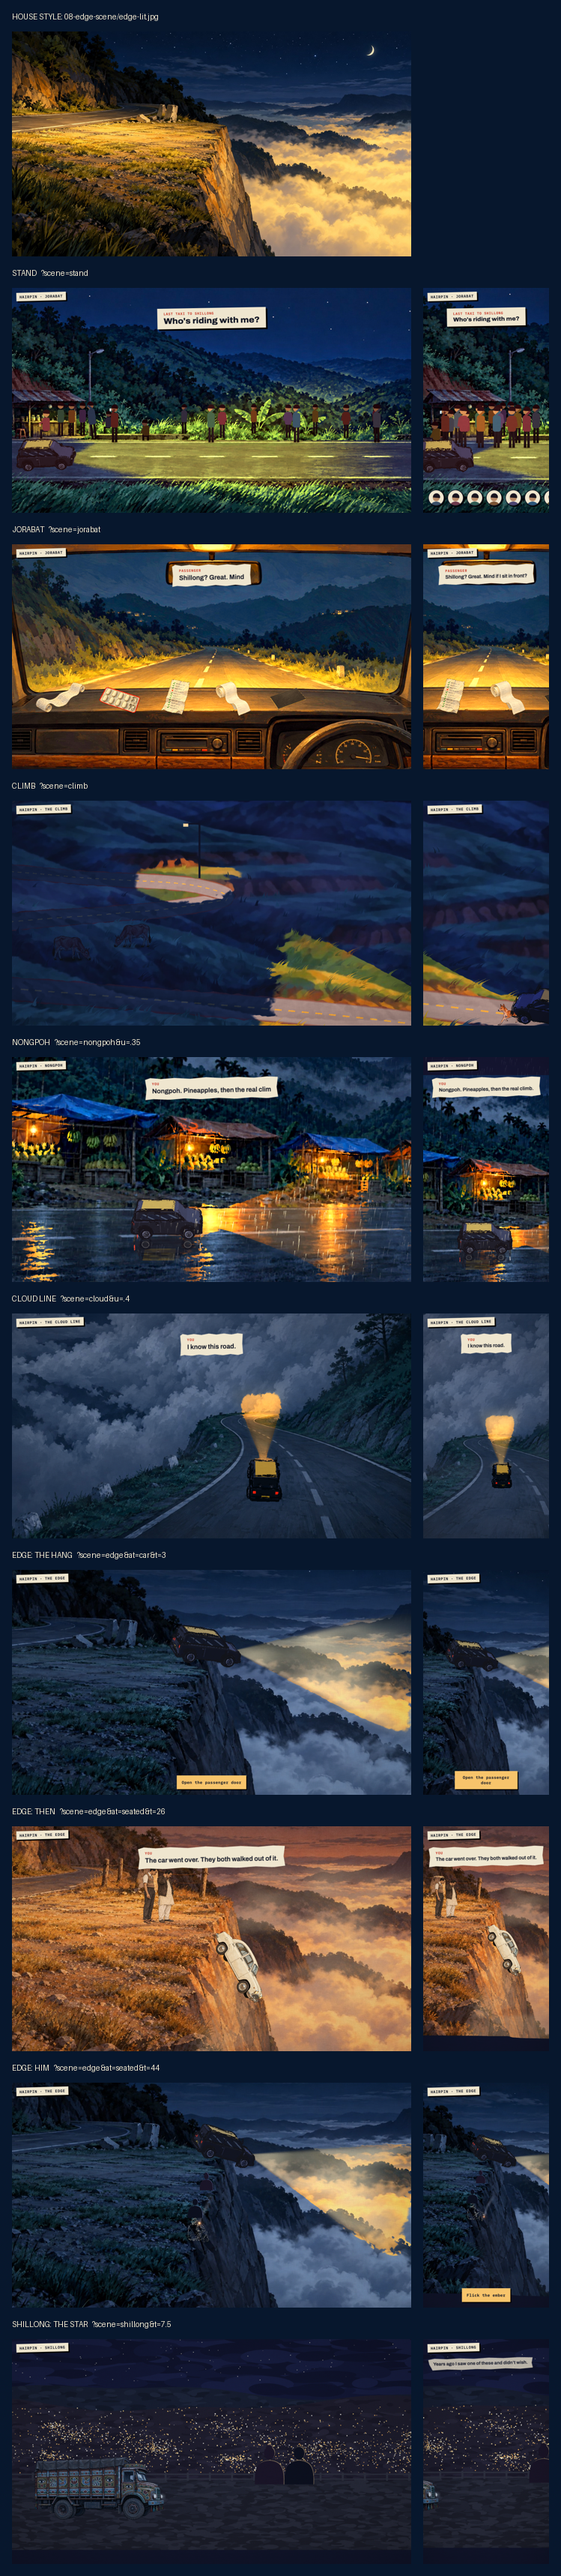
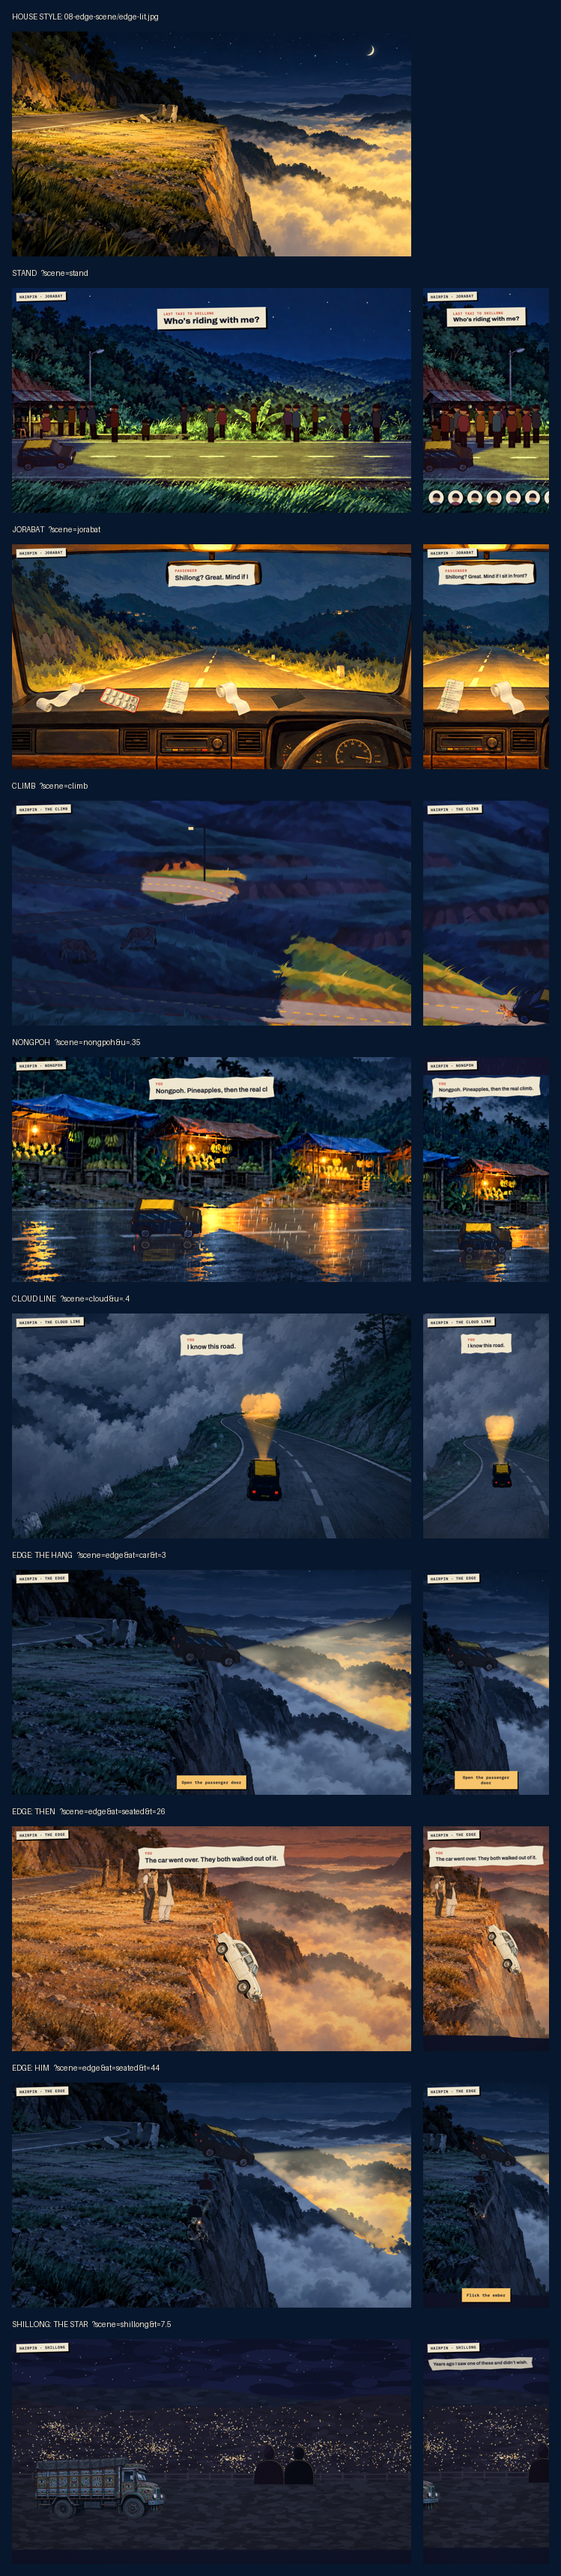
The taxi, painted: three-tone cel shading from real lights, a clean line
- Taxi shader: shadow / mid / lit bands jittered by a brush texture, the warm
  key aimed at the nearest real light in each scene (street lamp, lantern,
  stall bulb, the lit cloud, the truck), cool navy ambient, a moonlit rim
- Ink: a thin, clean line (no dotting), a faint second pass, less offset
- Placeholder people: palette tints, a flat two-tone shade and the same thin
  ink outline, until the painted figures arrive

diff --git a/shared/kit.js b/shared/kit.js
@@ -1,6 +1,6 @@
 // Shared by every scene: small helpers, the stroke map, the taxi, its ink outline, and the passenger.
 import * as THREE from 'three';
-import { LIVERY, TAXI, UTIL } from './style.js';
+import { LIVERY, TAXI, UTIL, GLSL_PALETTE } from './style.js';
 
 export const clamp = (x, a, b) => Math.min(b, Math.max(a, x));
 export const lerp = (a, b, t) => a + (b - a) * t;
@@ -35,30 +35,43 @@ export function colorize(g, hex, emit = 0) {
   g.setAttribute('color', new THREE.BufferAttribute(a, 3)); g.setAttribute('emit', new THREE.BufferAttribute(e, 1)); return g;
 }
 export function makeTaxi(uMode) {
+  // Painted, not flat-shaded (STYLE.md): three-tone cel shading, a warm key from the nearest real light (uKey: its direction
+  // in view space; uL: how strong), cool navy ambient, a moonlit rim along the top edges, and a brush-stroke texture that also
+  // breaks up the band edges so they read as painted.
   const jeepMat = new THREE.ShaderMaterial({
-    uniforms: { uL: { value: .3 }, uMode },
+    uniforms: { uL: { value: .3 }, uKey: { value: new THREE.Vector3(-.4, .7, .6).normalize() }, uMode },
     vertexShader: /* glsl */`
       attribute vec3 color; attribute float emit; varying vec3 vC; varying vec3 vN; varying float vE; varying vec3 vP;
       void main(){ vC = color; vE = emit; vP = position; vN = normalize(mat3(modelViewMatrix) * normal); gl_Position = projectionMatrix * modelViewMatrix * vec4(position, 1.); }`,
-    fragmentShader: /* glsl */`
-      uniform float uL, uMode; varying vec3 vC; varying vec3 vN; varying float vE; varying vec3 vP;
+    fragmentShader: NOISE + GLSL_PALETTE + /* glsl */`
+      uniform float uL, uMode; uniform vec3 uKey; varying vec3 vC; varying vec3 vN; varying float vE; varying vec3 vP;
       void main(){
         vec3 n = normalize(vN);
-        if (vE > .5 && vE < 1.5) { gl_FragColor = vec4(vC * 1.08, 1.); return; }
-        float k = dot(n, normalize(vec3(-.4, .7, .6)));
-        float lit = step(.15, k * (.45 + uL)) * clamp(uL, .25, 1.);
-        if (uMode > 1.5) lit = step(-.25, k);       // lit painting: the car in full daylight colour
-        else if (uMode > .5) lit = 0.;             // dark painting: the car fully in night tones
-        vec3 col = mix(vC * vec3(.30, .34, .52), vC * vec3(1.03, .96, .86), lit);
-        col += vec3(.05, .06, .1) * step(.72, n.y);
-        col += vec3(.035, .04, .06) + vec3(.09, .11, .18) * smoothstep(.45, .8, 1. - abs(n.z));
-        if (vE > 1.5) {
-          float streak = step(.8, fract((vP.x * 1.3 + vP.y * 2.4) * 1.2));
-          col = mix(vec3(.07, .09, .15), vec3(.36, .43, .56), streak * .55 + step(.55, n.y) * .18 + lit * .12);
+        if (vE > .5 && vE < 1.5) { gl_FragColor = vec4(vC * 1.08, 1.); return; }   // its own lamps
+        // brush: long strokes along the body, used to jitter the bands and to texture the paint
+        float brush = vn2(vec2(vP.x * 9. + vP.z * 3., vP.y * 34.)) * .7 + vn2(vec2(vP.x * 23., vP.y * 70. + vP.z * 11.)) * .3;
+        float k = dot(n, normalize(uKey)) + (brush - .5) * .35;
+        float key = clamp(uL, .2, 1.2);
+        // three tones: shadow, mid, lit
+        float mid = smoothstep(-.12, -.04, k), lit = smoothstep(.38, .46, k) * smoothstep(.15, .5, key);
+        if (uMode > 1.5) { mid = 1.; lit = smoothstep(-.1, 0., k); } else if (uMode > .5) { lit = 0.; }
+        vec3 shade = vC * COOL_AMBIENT + C_NIGHT * .5;
+        vec3 midC = mix(vC * COOL_AMBIENT * 1.35 + C_RIDGE * .18, vC * WARM_KEY * .72 + C_AMBER * .05, clamp(key * .6, 0., 1.));
+        vec3 litC = vC * WARM_KEY * (.5 + key * .3) + C_AMBER * .035 * key;
+        vec3 col = mix(mix(shade, midC, mid), litC, lit);
+        // the moon on the top edges
+        float rim = smoothstep(.55, .92, 1. - abs(n.z)) * smoothstep(-.1, .5, n.y);
+        col += C_CLOUD * .35 * rim * (1. - lit * .6);
+        if (vE > 1.5) {   // glass: dark, with a painted streak of reflected sky
+          float streak = smoothstep(.72, .8, fract((vP.x * 1.3 + vP.y * 2.4) * 1.2 + brush * .15));
+          col = mix(C_NIGHT * 1.2, C_CLOUD * .85, streak * .5 + step(.55, n.y) * .2 + lit * .1);
         }
+        col *= .84 + brush * .3;   // the paint isn't flat
+        col *= mix(.82, 1.06, smoothstep(-1.7, 1.7, vP.x + vP.y * .6));   // and each panel falls off a little, front to back, like a painted shape
         gl_FragColor = vec4(col, 1.);
       }`,
   });
+
 
   // jeep -> hang (the seesaw pivot, on the lip just behind the front axle) -> body
   const PIVOT = new THREE.Vector3(.55, .2, 0);
@@ -154,13 +167,13 @@ export class Ink {
           // only near the taxi: the boiling line and the colour printed a touch out of register
           if (all(greaterThan(vUv, uBox.xy)) && all(lessThan(vUv, uBox.zw))) {
             float frame = floor(uTime * 8.) * uBoil;
-            float base = max(1.6, uRes.y / 520.) * mix(1., 1.8, uJeepScale);
+            float base = max(1.2, uRes.y / 700.) * mix(1., 1.5, uJeepScale);   // thin (STYLE.md: a thin, clean line)
             vec2 w1 = (vec2(vn2(vUv * 45. + frame * 3.1), vn2(vUv * 45. + 17. + frame * 5.3)) - .5) * 2.2 * PX * (.4 + uBoil);
             float e1 = edgeAt(vUv + w1, base * (.5 + 1.1 * vn2(vUv * 60. + 3.)));
             vec2 w2 = (vec2(vn2(vUv * 11. + 40. + frame * 2.), vn2(vUv * 11. + 90. + frame * 1.7)) - .5) * 10. * PX;
-            float e2 = edgeAt(vUv + w2, base * .55) * step(.42, vn2(vUv * 26. + frame * 1.3));
-            float ink = max(e1 * step(.14, vn2(vUv * 130. + frame)), e2 * .85);
-            vec2 sh = vec2(2.6, -2.1) * PX * mix(.8, 1.7, uJeepScale);
+            float e2 = edgeAt(vUv + w2, base * .5) * step(.55, vn2(vUv * 26. + frame * 1.3));
+            float ink = max(e1, e2 * .45);   // clean: one confident line, a faint second pass where the sketch went over it
+            vec2 sh = vec2(1.6, -1.3) * PX * mix(.8, 1.4, uJeepScale);
             if (maskAt(vUv - sh) > .5) col = texture2D(tColor, vUv - sh).rgb;
             col = mix(col, vec3(.07, .075, .1), ink);
           }
@@ -314,4 +327,29 @@ export class Stage {
     this.cam.rotation.set(m.pitch, m.yaw, 0);
     this.cam.updateMatrixWorld();
   }
+}
+
+// point the taxi's warm key at a real light: from (the taxi) and to (the light) in world space; strength 0..1.2
+const _k = new THREE.Vector3();
+export function keyLight(jeepMat, camera, from, to, strength) {
+  _k.copy(to).sub(from).normalize().transformDirection(camera.matrixWorldInverse);
+  jeepMat.uniforms.uKey.value.copy(_k); jeepMat.uniforms.uL.value = strength;
+}
+
+// placeholder figures, painted to match (STYLE.md): a flat two-tone shade (lit from the upper left) and a thin ink outline
+export function paintFigure(src, ink, w = 2) {
+  const W = src.width, H = src.height, pad = Math.ceil(w) + 1;
+  const tint = mkCanvas(W, H), tx = tint.getContext('2d');   // the silhouette, in ink
+  tx.drawImage(src, 0, 0); tx.globalCompositeOperation = 'source-in'; tx.fillStyle = ink; tx.fillRect(0, 0, W, H);
+  const out = mkCanvas(W, H), x = out.getContext('2d');
+  for (let a = 0; a < 12; a++) x.drawImage(tint, Math.cos(a / 12 * Math.PI * 2) * w, Math.sin(a / 12 * Math.PI * 2) * w);   // the line, all round
+  x.drawImage(src, 0, 0);
+  // shade: the side away from the light a step darker, cut on a soft diagonal like a painted plane change
+  x.globalCompositeOperation = 'source-atop';
+  const g = x.createLinearGradient(W * .35, 0, W * .75, H * .3);
+  const shade = k => UTIL.black + Math.round(k * 255).toString(16).padStart(2, '0');   // black at strength k
+  g.addColorStop(0, shade(0)); g.addColorStop(.48, shade(0)); g.addColorStop(.52, shade(.28)); g.addColorStop(1, shade(.34));
+  x.fillStyle = g; x.fillRect(0, 0, W, H);
+  x.globalCompositeOperation = 'source-over';
+  return out;
 }

diff --git a/08-edge-scene/scene.js b/08-edge-scene/scene.js
@@ -2,8 +2,8 @@
 // the doors, sitting on the lip, the story wiping to the same cliff decades ago, him in ink with the ember, the flick,
 // the taxi going over, and the truck that gives you a lift. Tap (or the chip) for each next step.
 import * as THREE from 'three';
-import { clamp, lerp, damp, sstep, mkCanvas, loadImg, tex, strokeMap, NOISE, makeTaxi, LIVERY, passenger, line, disposeScene, Stage } from '../shared/kit.js';
-import { FIGURE } from '../shared/style.js';
+import { clamp, lerp, damp, sstep, mkCanvas, loadImg, tex, strokeMap, NOISE, makeTaxi, LIVERY, passenger, line, disposeScene, Stage, keyLight, paintFigure } from '../shared/kit.js';
+import { FIGURE, PALETTE } from '../shared/style.js';
 
 const at = f => new URL(f, import.meta.url).href;
 const SPRITES = ['ghost-1', 'ghost-2', 'then-car', 'then-pair', 'truck-lit', 'truck-dark'];
@@ -112,7 +112,7 @@ jeep.quaternion.setFromAxisAngle(new THREE.Vector3(1, 0, 0), .42).multiply(new T
 scene.add(jeep);
 
 /* ---------- the two of us, him, the ember ---------- */
-const cutout = (w, h, draw) => { const c = mkCanvas(w, h); draw(c.getContext('2d')); return tex(c); };
+const cutout = (w, h, draw) => { const c = mkCanvas(w, h); draw(c.getContext('2d')); return tex(paintFigure(c, PALETTE.ink, 3)); };   // painted to match, with the thin line
 const QUAD = 'varying vec2 vUv; void main(){ vUv = uv; gl_Position = projectionMatrix * modelViewMatrix * vec4(position, 1.); }';
 const footGeo = new THREE.PlaneGeometry(1, 1).translate(0, .5, 0);   // origin at the bottom edge, where they sit
 // placeholder silhouettes, seen from behind
@@ -355,6 +355,8 @@ function frame(dt0) {
   // headlights: from the nose, wherever the nose now points
   const a = stage.toPaint(body.localToWorld(v1.set(1.72, .62, 0))), b = stage.toPaint(body.localToWorld(v2.set(2.72, .62, 0)));
   U.uHead.value.set(...a); U.uDir.value.set(b[0] - a[0], b[1] - a[1]).normalize();
+  // the warm key: the cloud its own beams light up, ahead and below (the truck's lights, once it comes)
+  keyLight(jeepMat, camera, jeep.position, truck.visible ? truck.position : stage.toWorld(a[0] + 300, a[1] + 160, 0, v2), truck.visible ? .9 : .45);
   if (truck.visible) {   // the truck rolls in round the bend and stops; now its headlights are the light
     const k = phase === 'truck' ? 1 - Math.pow(1 - clamp(since / 5, 0, 1), 2.2) : 1, x = lerp(TRUCK.from, TRUCK.to, k);
     stage.place(truck, x, TRUCK.y - (k < 1 ? Math.sin(t * 9) * .8 : 0), [truckW, TRUCK.h], stage.depthAt(clamp(x, 0, IW), TRUCK.y));

diff --git a/01-cloud-line-scene/scene.js b/01-cloud-line-scene/scene.js
@@ -1,7 +1,7 @@
 // The climb: painted hills, the headlight reveal, wind in the grass, cows, a dog that chases, a walker, the woman with the basket.
 // Hold to drive faster; the horn makes them look up.
 import * as THREE from 'three';
-import { disposeScene, makeTaxi, colorize, Stage, loadImg as loadImage } from '../shared/kit.js';
+import { disposeScene, makeTaxi, colorize, Stage, loadImg as loadImage, keyLight } from '../shared/kit.js';
 import { CLIMB_STANDINS as C } from '../shared/style.js';
 
 const at = f => new URL(f, import.meta.url).href;
@@ -319,7 +319,7 @@ basket.home = new THREE.Vector2(640, 578); basket.face = new THREE.Vector2(0, 1)
 const beings = [...cows, dog, walker, basket];
 for (const b of beings) b.R.visible = false;  // placeholders: replaced by painted cut-outs
 let honkT = 0, lapDogDone = false;
-const ZERO = new THREE.Vector2();
+const ZERO = new THREE.Vector2(), KEY_TO = new THREE.Vector3();
 const tiltQ = new THREE.Quaternion().setFromAxisAngle(new THREE.Vector3(1, 0, 0), .42), yawQ = new THREE.Quaternion();
 function place(c, x, y, f, par) {
   const o = par(y), sz = sizeAt(y);
@@ -551,7 +551,9 @@ function frame(dt) {
   U.uDir.value.copy(dir);
   U.uScale.value = sc;
   let Lj = .25; for (const L of LAMPS) Lj += Math.max(0, 1 - Math.hypot(p.x - L.x, (p.y - L.y) * 2.4) / 170) * 1.1;
-  jeepMat.uniforms.uL.value = clamp(Lj, .25, 1.2);
+  // the warm key: the nearest street lamp's bulb
+  const lamp = LAMPS.reduce((a, b) => Math.hypot(a.x - p.x, a.y - p.y) < Math.hypot(b.x - p.x, b.y - p.y) ? a : b);
+  keyLight(jeepMat, camera, jeep.position, stage.toWorld(lamp.x, lamp.y - 150, stage.depthAt(lamp.x, lamp.y), KEY_TO), clamp(Lj, .25, 1.2));
   ctx.ink.uniforms.uJeepScale.value = sc; ctx.ink.uniforms.uTime.value = U.uTime.value;
   // subtitles
   const next = LINES.findIndex(([at], i) => i > lineIdx && u >= at);

diff --git a/13-the-stand/scene.js b/13-the-stand/scene.js
@@ -2,7 +2,7 @@
 // Hover or focus shows a person's tagline and quip; a click (or Enter) gives them the lift.
 import * as THREE from 'three';
 import { clamp, lerp, damp, sstep, mkCanvas, loadImg, tex, strokeMap, makeTaxi, roster, pick, disposeScene } from '../shared/kit.js';
-import { Stage } from '../shared/kit.js';
+import { Stage, keyLight, paintFigure } from '../shared/kit.js';
 import { PALETTE, FIGURE, UTIL } from '../shared/style.js';
 
 const at = f => new URL(f, import.meta.url).href;
@@ -150,7 +150,7 @@ export async function load(ctx) {
   const footGeo = new THREE.PlaneGeometry(1, 1).translate(0, .5, 0);
   people.forEach((p, i) => {
     p.pose = POSES[i] || (i % 3 ? 'flag' : 'stand');
-    p.sprite = stands[i]; const src = p.sprite || standIn(p.pose, i);
+    p.sprite = stands[i]; const src = p.sprite || paintFigure(standIn(p.pose, i), PALETTE.ink, 2.5);
     p.aspect = src.width / src.height;
     p.mat = pMat(tex(src)); p.m = new THREE.Mesh(footGeo, p.mat); p.m.frustumCulled = false; scene.add(p.m);
     p.sh = new THREE.Mesh(new THREE.PlaneGeometry(1, 1), new THREE.MeshBasicMaterial({ map: POOL, color: UTIL.shadow, transparent: true, opacity: .45, depthWrite: false })); scene.add(p.sh);
@@ -207,6 +207,7 @@ export async function load(ctx) {
     taxiX = viewL + 70 + viewW * .05;   // the taxi, nosed into the left of the shot (inside the push-in)
     stage.place(taxi.jeep, taxiX, .775 * IH, 58, stage.depthAt(taxiX, .79 * IH));
     U.uHead.value.set(taxiX + 100, .755 * IH);
+    keyLight(taxi.jeepMat, camera, taxi.jeep.position, stage.toWorld(.165 * IW, .6 * IH, stage.depthAt(.165 * IW, .66 * IH), new THREE.Vector3()), .55);   // the stall's bulb
     layout();
   }
 

diff --git a/09-shillong/scene.js b/09-shillong/scene.js
@@ -1,8 +1,8 @@
 // Shillong: the truck that gave you a lift parks at the viewpoint above the city. The engine goes off and ticks as it cools;
 // the passenger signs off; a shooting star crosses (hold while it's up to bank the wish); the quote sets itself on torn paper.
 import * as THREE from 'three';
-import { clamp, lerp, sstep, mkCanvas, loadImg, tex, strokeMap, NOISE, line, disposeScene, Stage } from '../shared/kit.js';
-import { SHILLONG_PLACEHOLDER, FIGURE } from '../shared/style.js';
+import { clamp, lerp, sstep, mkCanvas, loadImg, tex, strokeMap, NOISE, line, disposeScene, Stage, paintFigure } from '../shared/kit.js';
+import { SHILLONG_PLACEHOLDER, FIGURE, PALETTE } from '../shared/style.js';
 
 const at = f => new URL(f, import.meta.url).href;
 export const assets = ['../08-edge-scene/sprites/truck-lit.png', '../08-edge-scene/sprites/truck-dark.png'];
@@ -123,7 +123,7 @@ const bg = stage.mesh(new THREE.ShaderMaterial({
 scene.add(bg);
 
 /* ---------- the two of us at the railing, seen from behind ---------- */
-const cutout = (w, h, draw) => { const c = mkCanvas(w, h); draw(c.getContext('2d')); return tex(c); };
+const cutout = (w, h, draw) => { const c = mkCanvas(w, h); draw(c.getContext('2d')); return tex(paintFigure(c, PALETTE.ink, 3)); };   // painted to match, with the thin line
 const back = (fill, extra) => cutout(200, 240, c => {
   const shape = (dx, dy) => {
     c.beginPath(); c.moveTo(18 + dx, 240); c.bezierCurveTo(14 + dx, 150 + dy, 30 + dx, 108 + dy, 100 + dx, 104 + dy); c.bezierCurveTo(170 + dx, 108 + dy, 186 + dx, 150 + dy, 182 + dx, 240); c.fill();

diff --git a/12-cloud-line/scene.js b/12-cloud-line/scene.js
@@ -1,6 +1,6 @@
 // The cloud line: seen from behind, the taxi drives up into the wall of cloud until it whites out. Hold to drive faster.
 import * as THREE from 'three';
-import { clamp, lerp, damp, loadImg, tex, strokeMap, NOISE, makeTaxi, disposeScene, Stage } from '../shared/kit.js';
+import { clamp, lerp, damp, loadImg, tex, strokeMap, NOISE, makeTaxi, disposeScene, Stage, keyLight } from '../shared/kit.js';
 
 const at = f => new URL(f, import.meta.url).href;
 export const assets = ['cloudline-lit.jpg', 'cloudline-dark.jpg', 'depth.png'];
@@ -64,7 +64,7 @@ const bg = stage.mesh(new THREE.ShaderMaterial({
 }));
 scene.add(bg);
 
-const { jeep, body, PIVOT } = makeTaxi(U.uMode);
+const { jeep, body, PIVOT, jeepMat } = makeTaxi(U.uMode);
 scene.add(jeep);
 ctx.bed({ engine: 1, wind: .6 });
 
@@ -105,6 +105,7 @@ function frame(dt) {
   jeep.updateMatrixWorld(true);
   const a = stage.toPaint(body.localToWorld(v1.set(1.72, .62, 0))), b = stage.toPaint(body.localToWorld(v2.set(2.72, .62, 0)));
   U.uHead.value.set(...a); U.uDir.value.set(b[0] - a[0], b[1] - a[1]).normalize();
+  keyLight(jeepMat, camera, jeep.position, stage.toWorld(b[0], b[1] - 80, 0, v2), .35);   // the fog its beams light up, ahead
   U.uScale.value = .3 + sc / 260;   // the beam's reach shrinks with distance too
   ctx.ink.uniforms.uJeepScale.value = clamp(sc / 190, .2, 1); ctx.ink.uniforms.uTime.value = t;
   U.uFog.value = Math.pow(clamp((u - .25) / .7, 0, 1), 1.3) * .95;

diff --git a/11-nongpoh/scene.js b/11-nongpoh/scene.js
@@ -1,7 +1,7 @@
 // Nongpoh: the taxi crosses the rainy roadside of pineapple stalls; lanterns flicker and streak the wet road.
 // The grandfather line is said here, once, and dropped. Hold to drive faster.
 import * as THREE from 'three';
-import { clamp, lerp, damp, loadImg, tex, strokeMap, NOISE, makeTaxi, disposeScene, Stage } from '../shared/kit.js';
+import { clamp, lerp, damp, loadImg, tex, strokeMap, NOISE, makeTaxi, disposeScene, Stage, keyLight } from '../shared/kit.js';
 
 const at = f => new URL(f, import.meta.url).href;
 export const assets = ['nongpoh-lit.jpg', 'nongpoh-dark.jpg', 'depth.png'];
@@ -167,6 +167,9 @@ function frame(dt) {
   jeep.updateMatrixWorld(true);
   const a = stage.toPaint(body.localToWorld(v1.set(1.72, .62, 0))), b = stage.toPaint(body.localToWorld(v2.set(2.72, .62, 0)));
   U.uHead.value.set(...a); U.uDir.value.set(b[0] - a[0], b[1] - a[1]).normalize();
+  // the warm key: the nearest lantern, and how close it is
+  const ln = U.uLamp.value.reduce((p, q) => Math.abs(p.x - x) < Math.abs(q.x - x) ? p : q), near = 1 - clamp(Math.abs(ln.x - x) / 500, 0, 1);
+  keyLight(jeepMat, camera, jeep.position, stage.toWorld(ln.x, ln.y, stage.depthAt(ln.x, ln.y), v2), .3 + .7 * near);
   // the camera keeps the taxi a little left of centre, so you see what's coming
   // a translation from the rest pose: the stalls and the forest behind them slide at different speeds
   const mW = viewW * .08;
